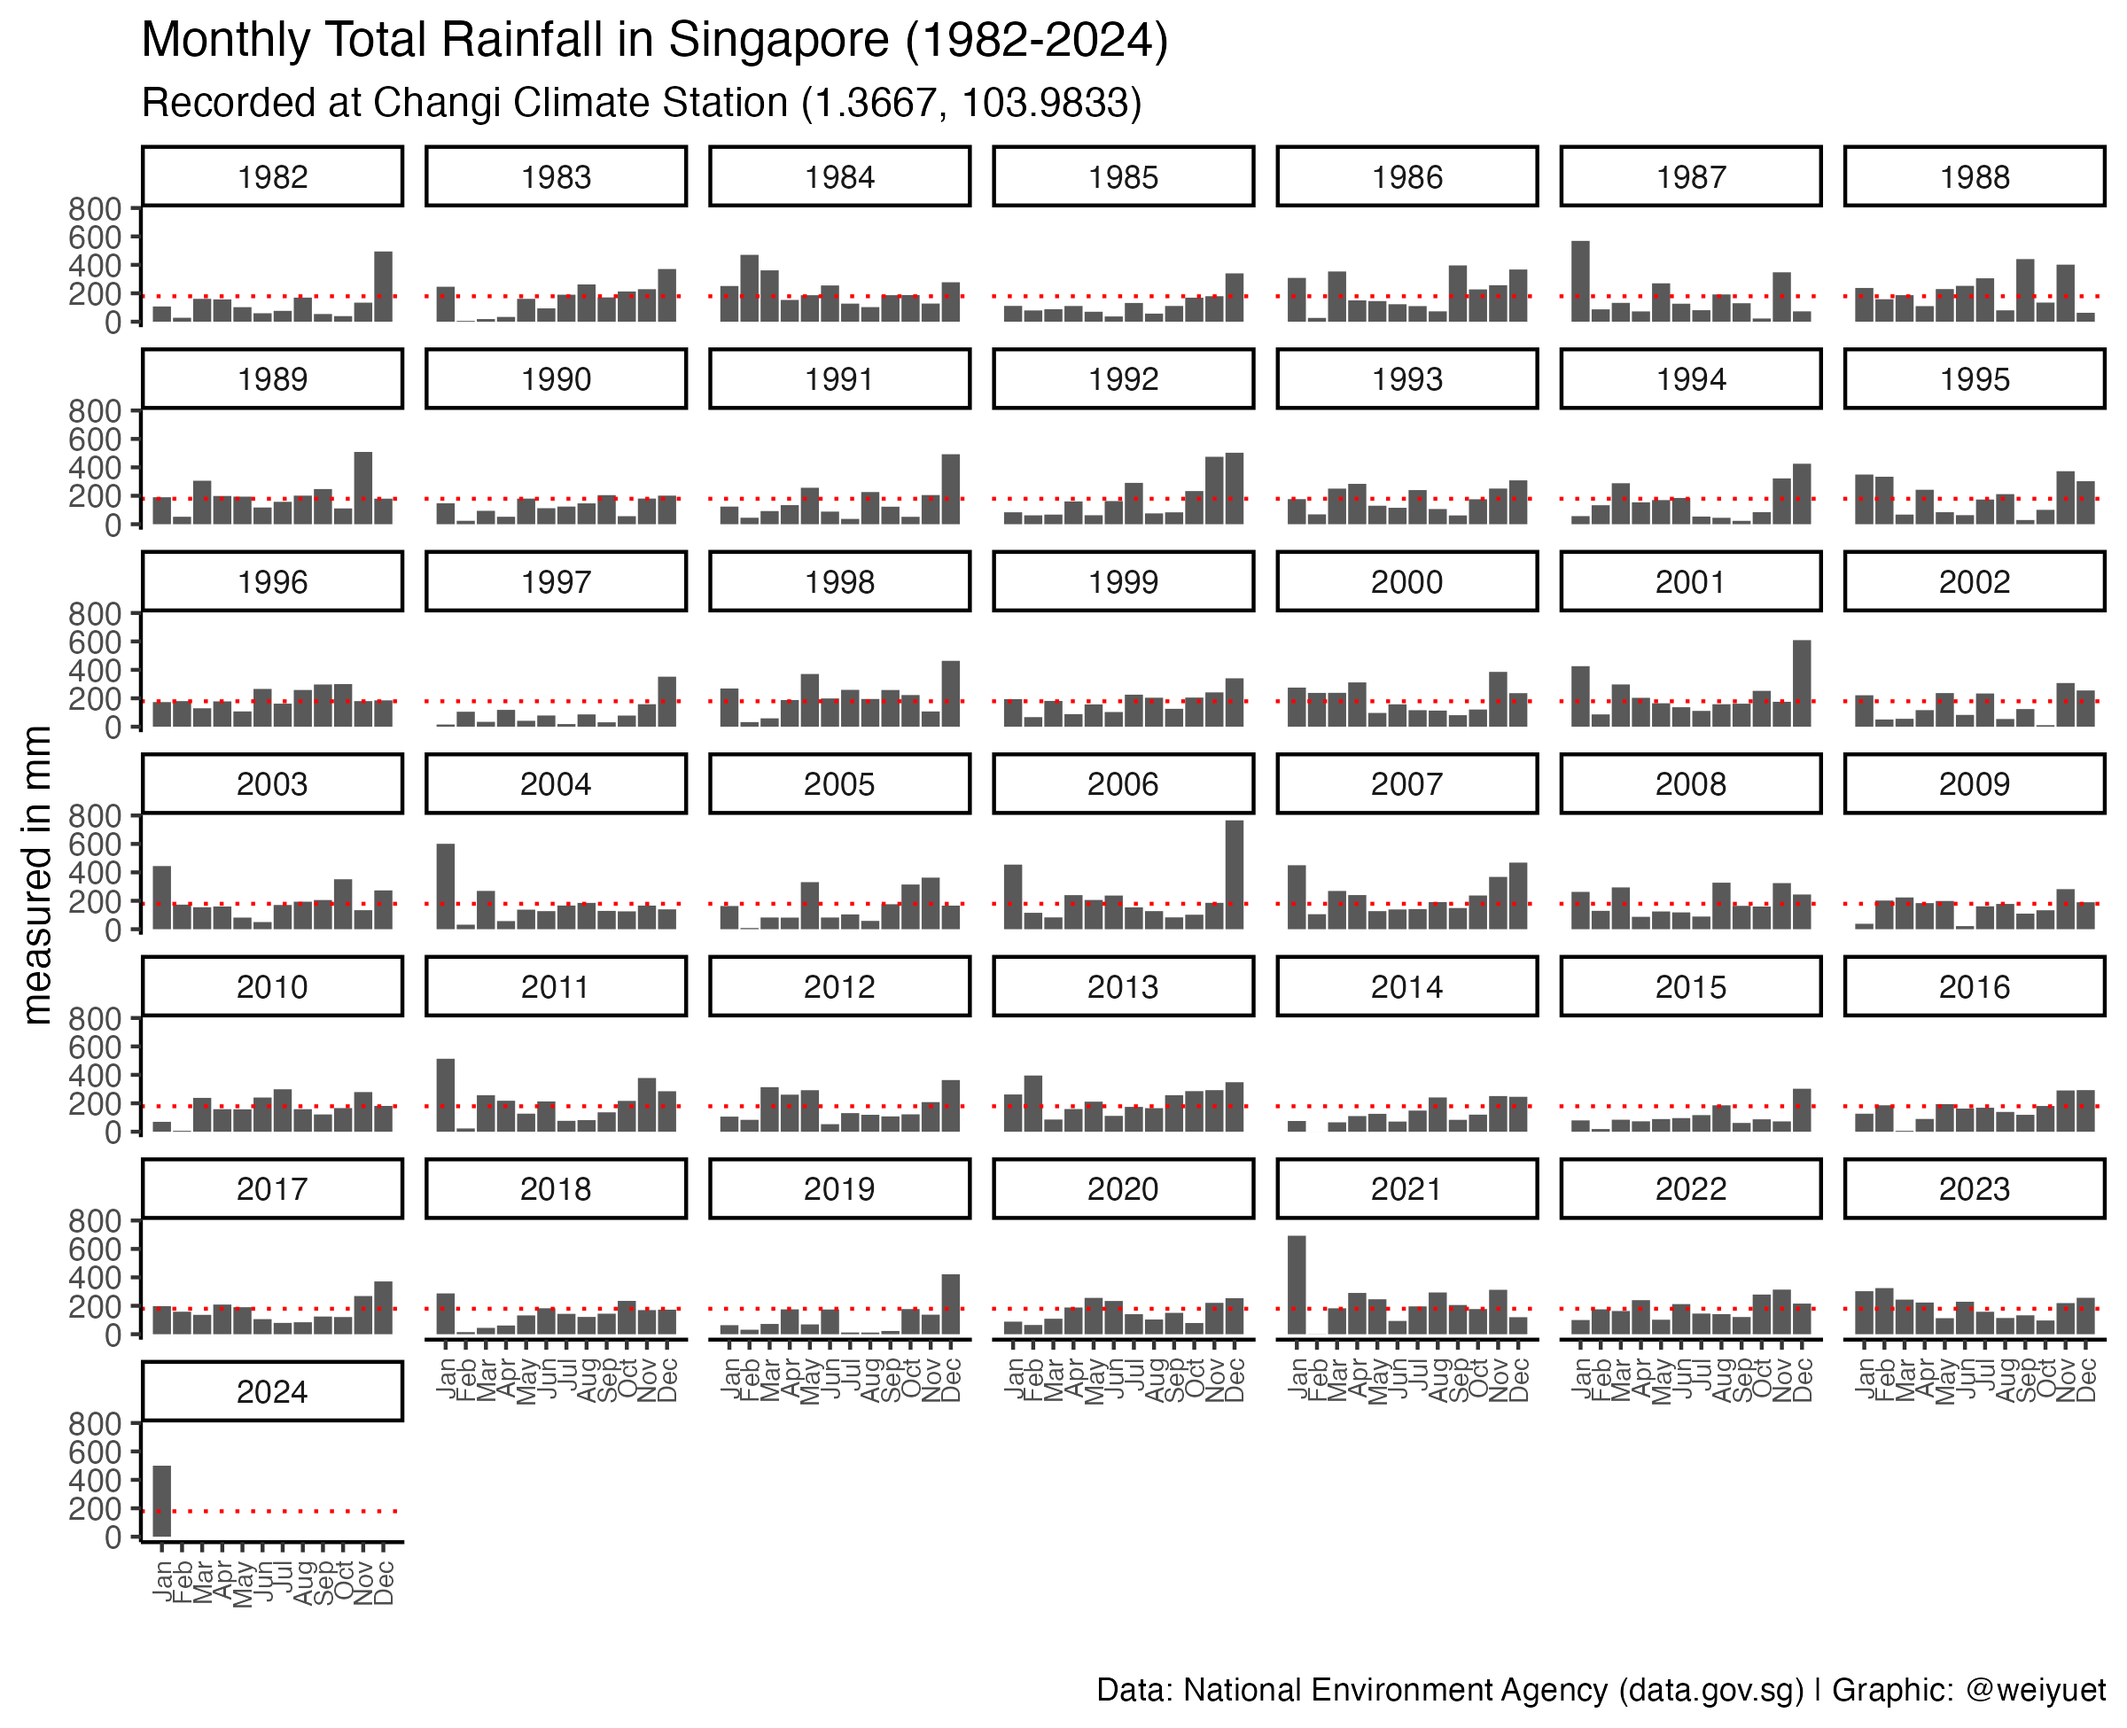
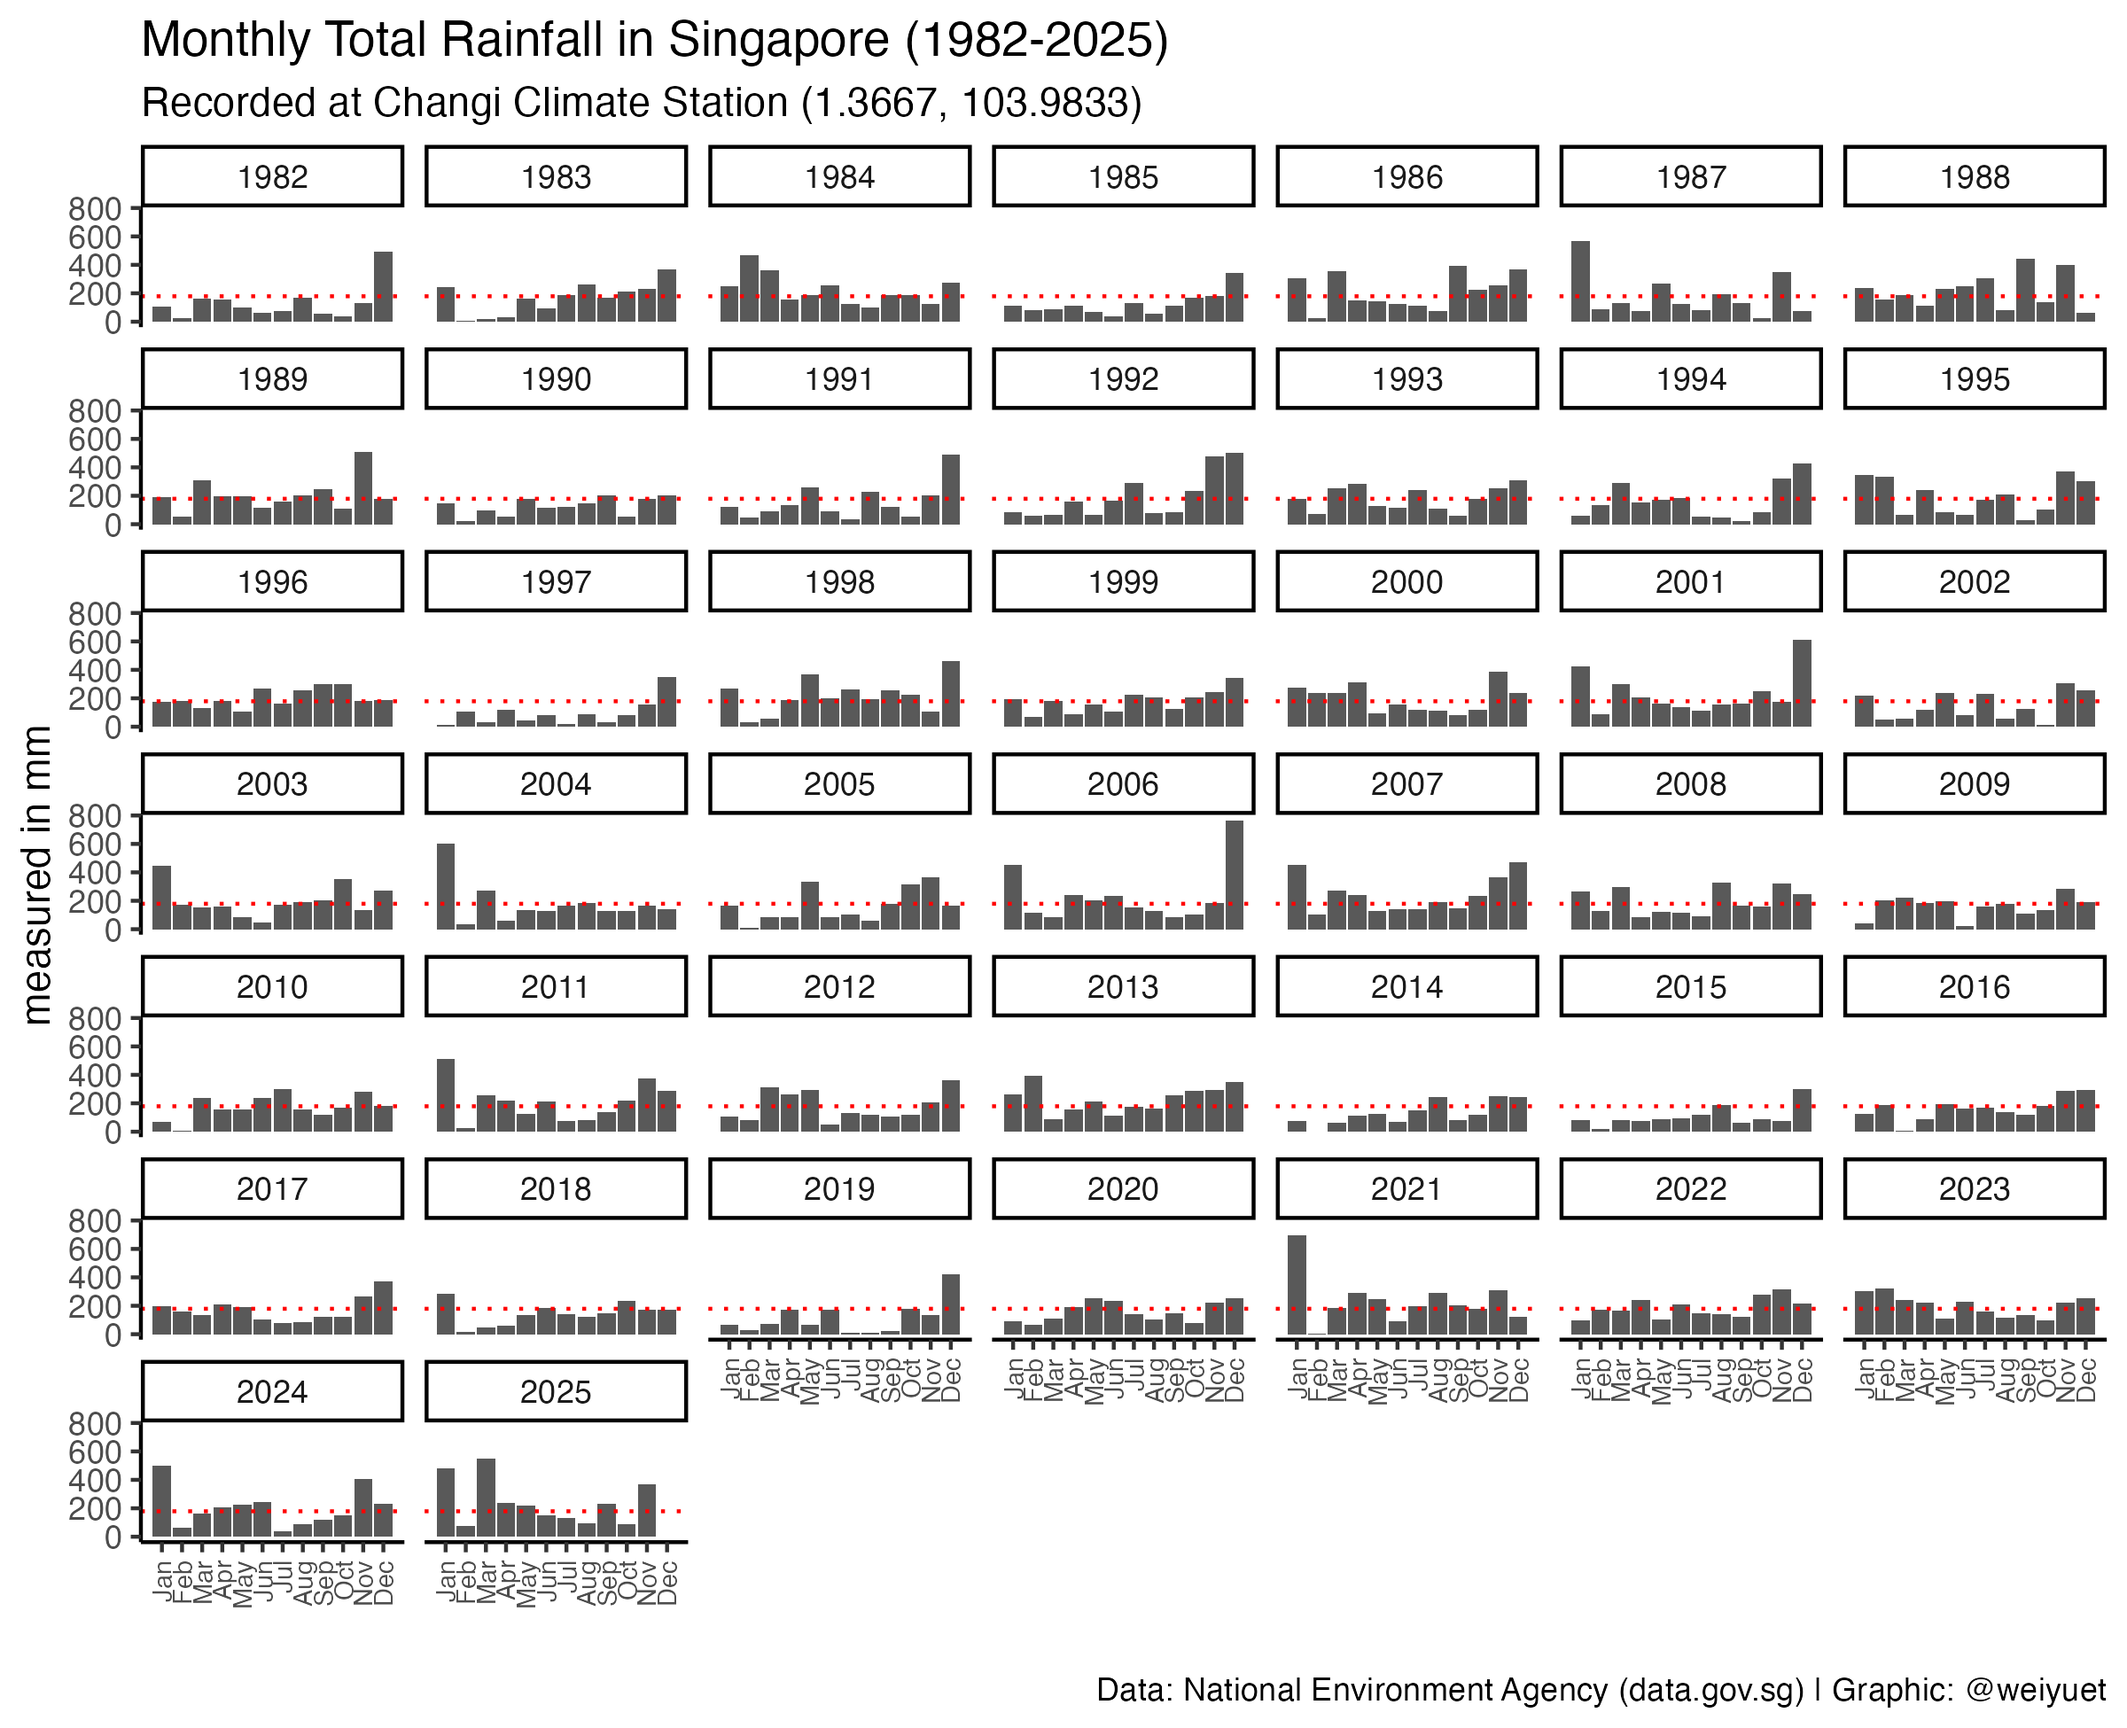
Updated 29 December

Changed region(s): [[0.0938, 0.7692, 0.3438, 0.9231], [0.5312, 0.0, 0.5625, 0.0308]]

diff --git a/README.md b/README.md
@@ -9,7 +9,7 @@ Data:
   
 The `Singapore Open Data Licence` aims to promote and enable easy reuse of Public Sector data...
 
-Updated: 2025-06-05
+Updated: 2025-12-29
 
 ## Air Pollutant - Particulate Matter PM2.5
 ![](https://github.com/weiyuet/singapore-data/blob/main/figures/air-pollutant-pm25-mean.png)
